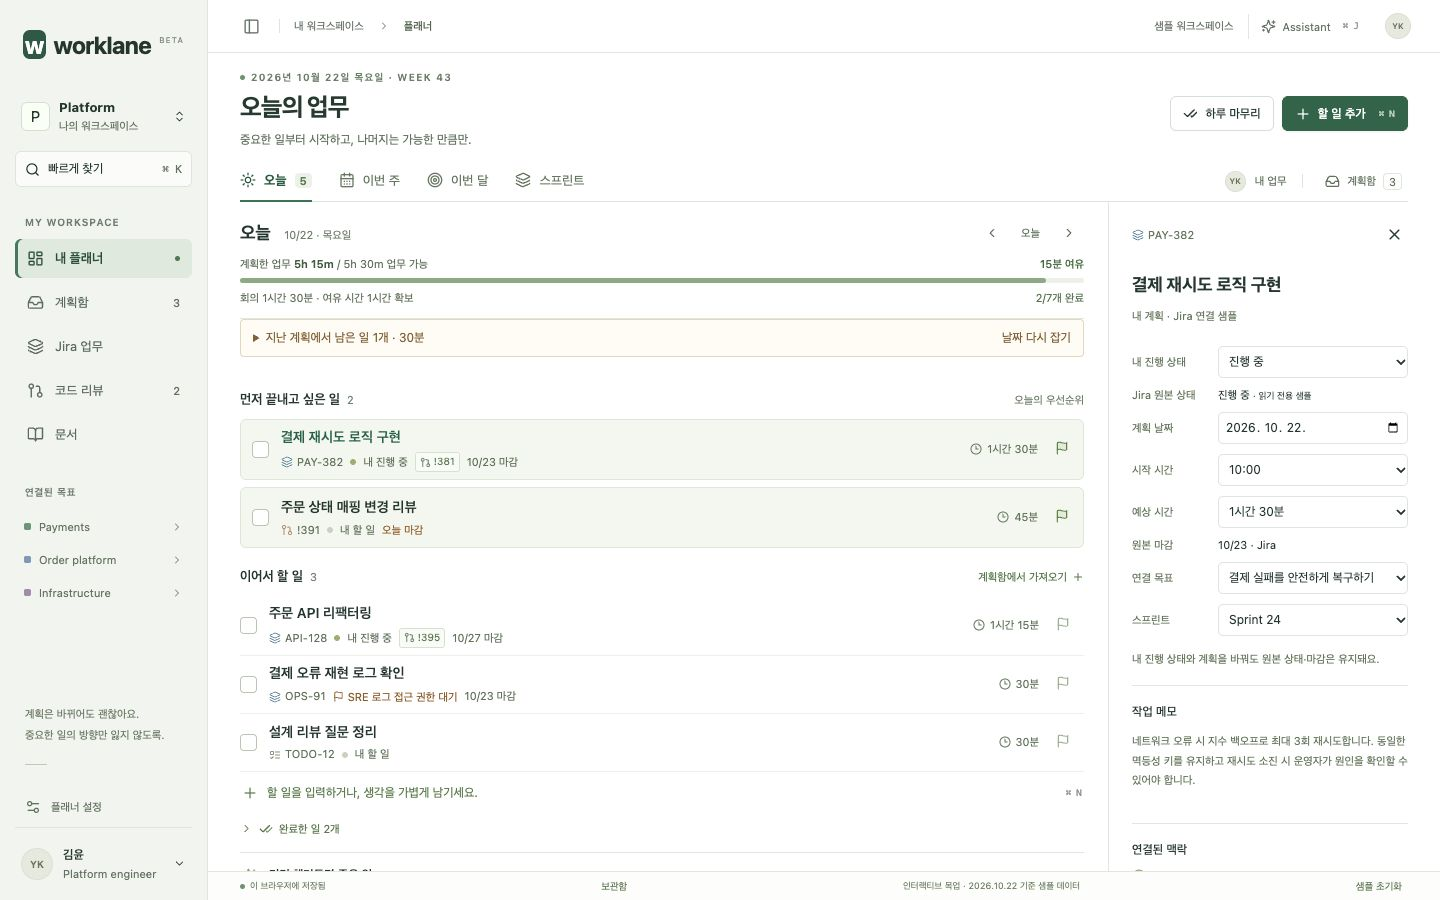
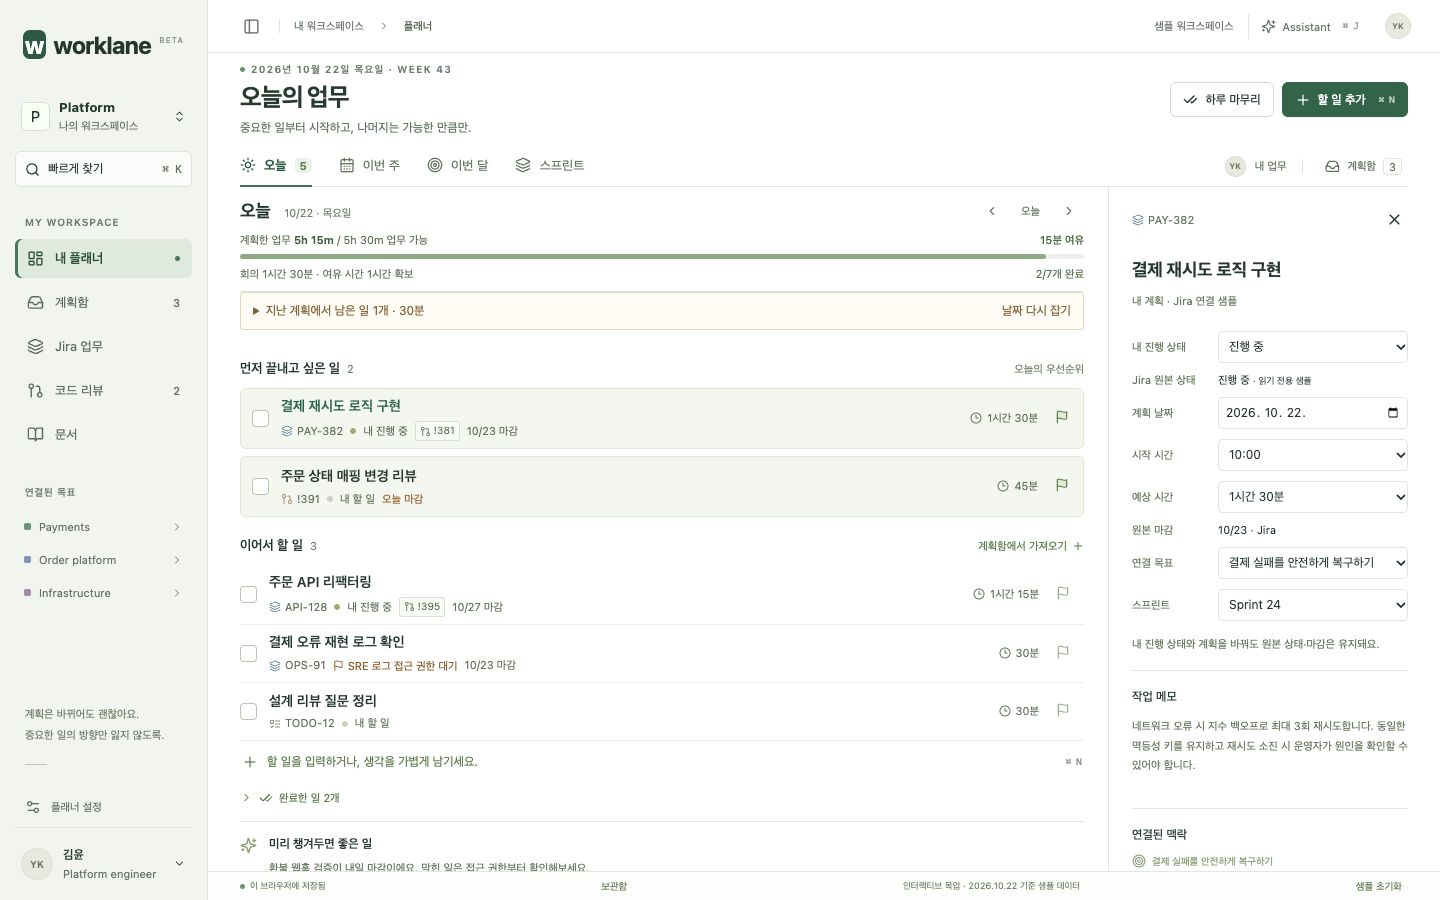
Prioritize daily execution and upcoming week plans in mock

diff --git a/mock/src/PlannerMock.jsx b/mock/src/PlannerMock.jsx
@@ -484,7 +484,7 @@ export default function PlannerMock() {
             <span className="avatar small">YK</span>
           </div>
         </header>
-        <main ref={mainRef} className="planner-main">
+        <main ref={mainRef} className="planner-main" data-view={view}>
           <div className="page-heading">
             <div>
               <div className="eyebrow">
@@ -837,7 +837,16 @@ export default function PlannerMock() {
                       />
                     </details>
                   )}
-                  <div className="week-grid">
+                  <div
+                    className="week-grid"
+                    style={{
+                      gridTemplateColumns: week
+                        .map(
+                          (d) => `minmax(0, ${d.date < TODAY ? 0.8 : 1.3}fr)`,
+                        )
+                        .join(' '),
+                    }}
+                  >
                     {week.map((d) => {
                       const ts = tasks.filter((t) => t.date === d.date);
                       const c = capacity(tasks, d.date);
@@ -897,10 +906,7 @@ export default function PlannerMock() {
                               <TaskCard key={t.id} task={t} {...common} />
                             ))}
                             {ts.some((t) => !isOpen(t)) && (
-                              <details
-                                className="week-completed"
-                                open={d.date < TODAY}
-                              >
+                              <details className="week-completed">
                                 <summary>
                                   완료한 일{' '}
                                   {ts.filter((t) => !isOpen(t)).length}개

diff --git a/mock/src/planner.css b/mock/src/planner.css
@@ -3689,3 +3689,23 @@ h2 > span {
 .agenda-free {
   cursor: default;
 }
+
+/* Daily execution starts higher; preserve the same readable typography. */
+.planner-main[data-view='today'] .page-heading {
+  padding: 10px 0;
+}
+.planner-main[data-view='today'] .page-heading h1 {
+  margin: 4px 0;
+}
+.planner-main[data-view='today'] .heading-actions {
+  padding-top: 0;
+}
+.planner-main[data-view='today'] .day-overview {
+  padding: 10px 0;
+}
+.planner-main[data-view='today'] .day-overview > div:first-child {
+  margin-bottom: 8px;
+}
+.planner-main[data-view='today'] .daily-carryover {
+  margin-bottom: 12px;
+}

diff --git a/mock/reviews/astra-integration.md b/mock/reviews/astra-integration.md
@@ -43,3 +43,9 @@ Verified by the main agent in the in-app browser, using mock data only:
 This is a local interactive mock, not production or live-account proof. Meetings, working-hour defaults, sample clock and two sprint periods remain fixtures. Week is a Monday–Friday board; weekend work is available through daily and review views. Real Jira/GitLab/Confluence/AI calls are absent.
 
 Native drag gesture movement was not verified in this automation environment. Date inputs, overflow scrolling and explicit sprint placement buttons were verified. The critic identified and the main agent corrected the sprint drop handler to set the selected sprint as well as personal status; that handler correction is source-reviewed rather than a live drag result. 125% zoom and long-term user testing were not performed.
+
+## Follow-up: daily execution and remaining-week emphasis
+
+After selecting Today as the default entry and Week as the adjacent planning view, the main agent compressed Today's heading and capacity spacing. Week now starts with completed groups collapsed and gives today/future weekdays more width than past weekdays. Entirely past or future weeks retain equal column widths.
+
+Main-agent browser verification at 1440×900 confirmed the completed groups start collapsed, Monday's completed tasks can be expanded and collapsed, and the next week uses equal column widths. Today, Week and the Today inspector screenshots were refreshed. The production build and diff whitespace check passed. This follow-up was not a new independent Astra review.

diff --git a/mock/README.md b/mock/README.md
@@ -2,6 +2,8 @@
 
 매일 실행할 일, 주간 배치, 월간 목표, 스프린트 추적을 **하나의 태스크**로 연결하는 인터랙티브 디자인 목업입니다.
 
+기본 진입은 **오늘**, 업무 배치는 바로 옆 **이번 주**에서 합니다. 월간·스프린트는 목표와 진행 상황을 점검할 때 사용합니다. 오늘의 상단을 압축하고, 주간의 완료 업무는 기본으로 접으며 오늘과 남은 요일에 더 넓은 공간을 배정했습니다.
+
 ## 오늘
 ![오늘의 업무](screenshots/planner-today.jpg)
 
